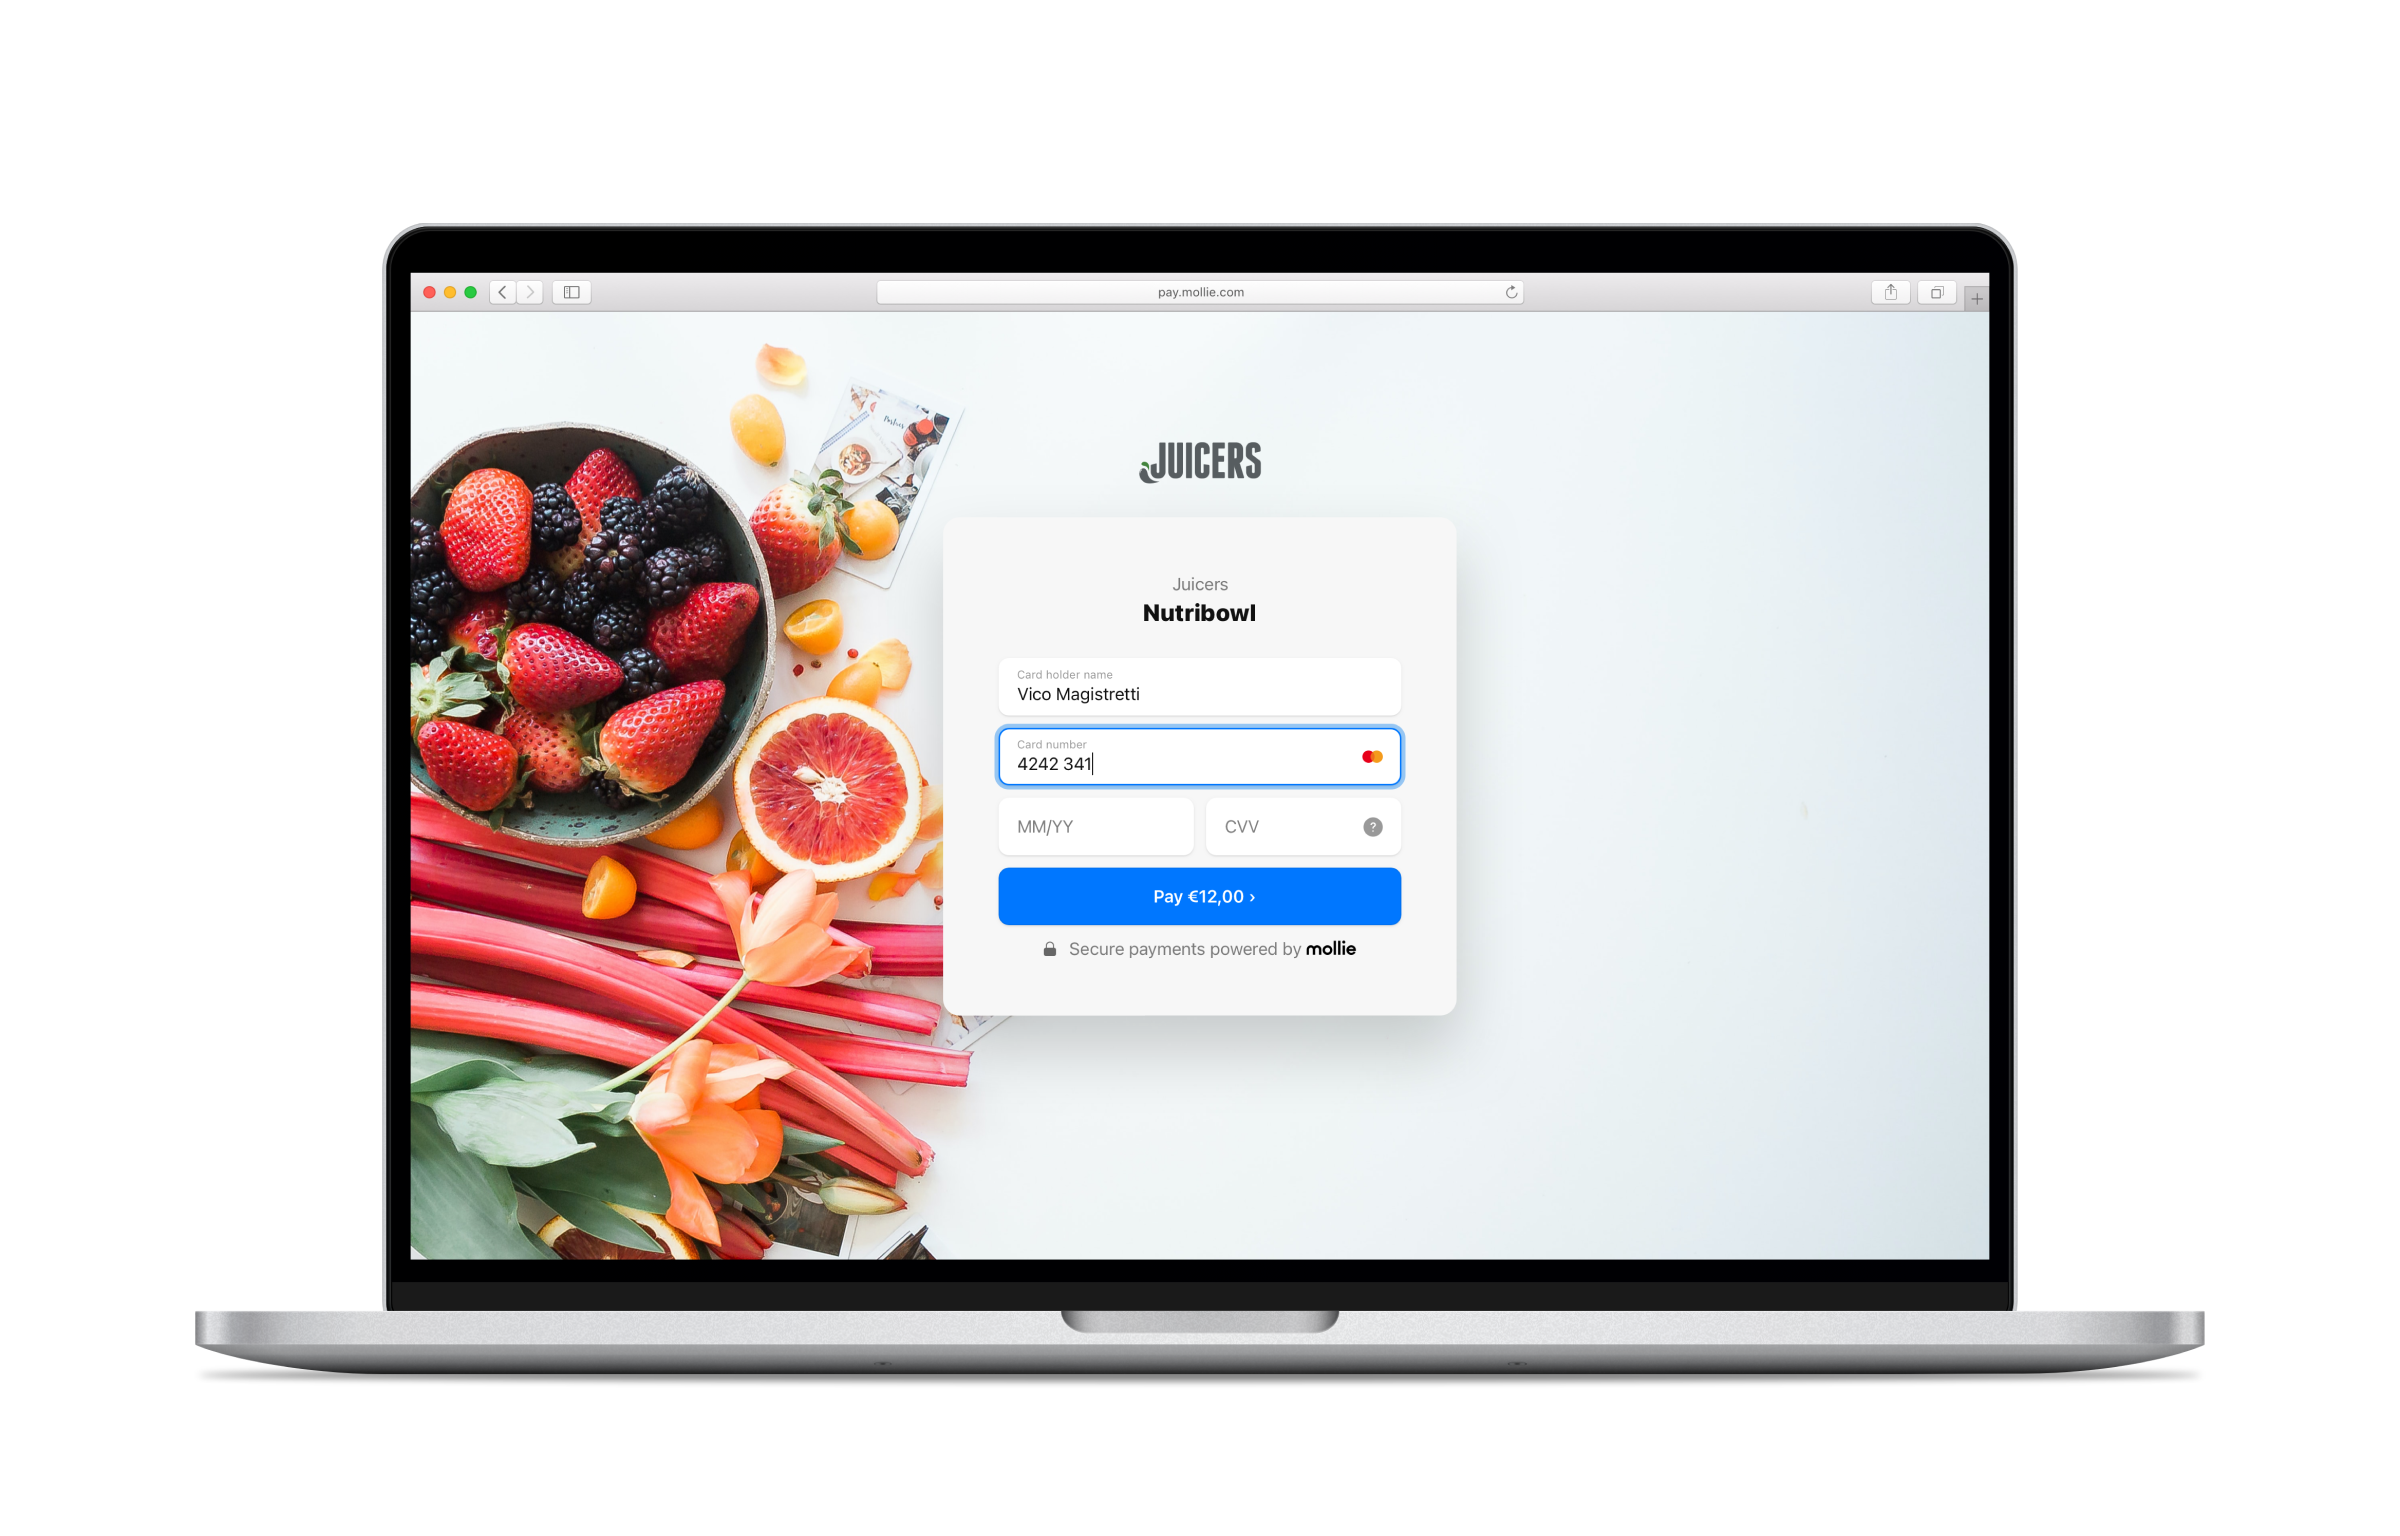
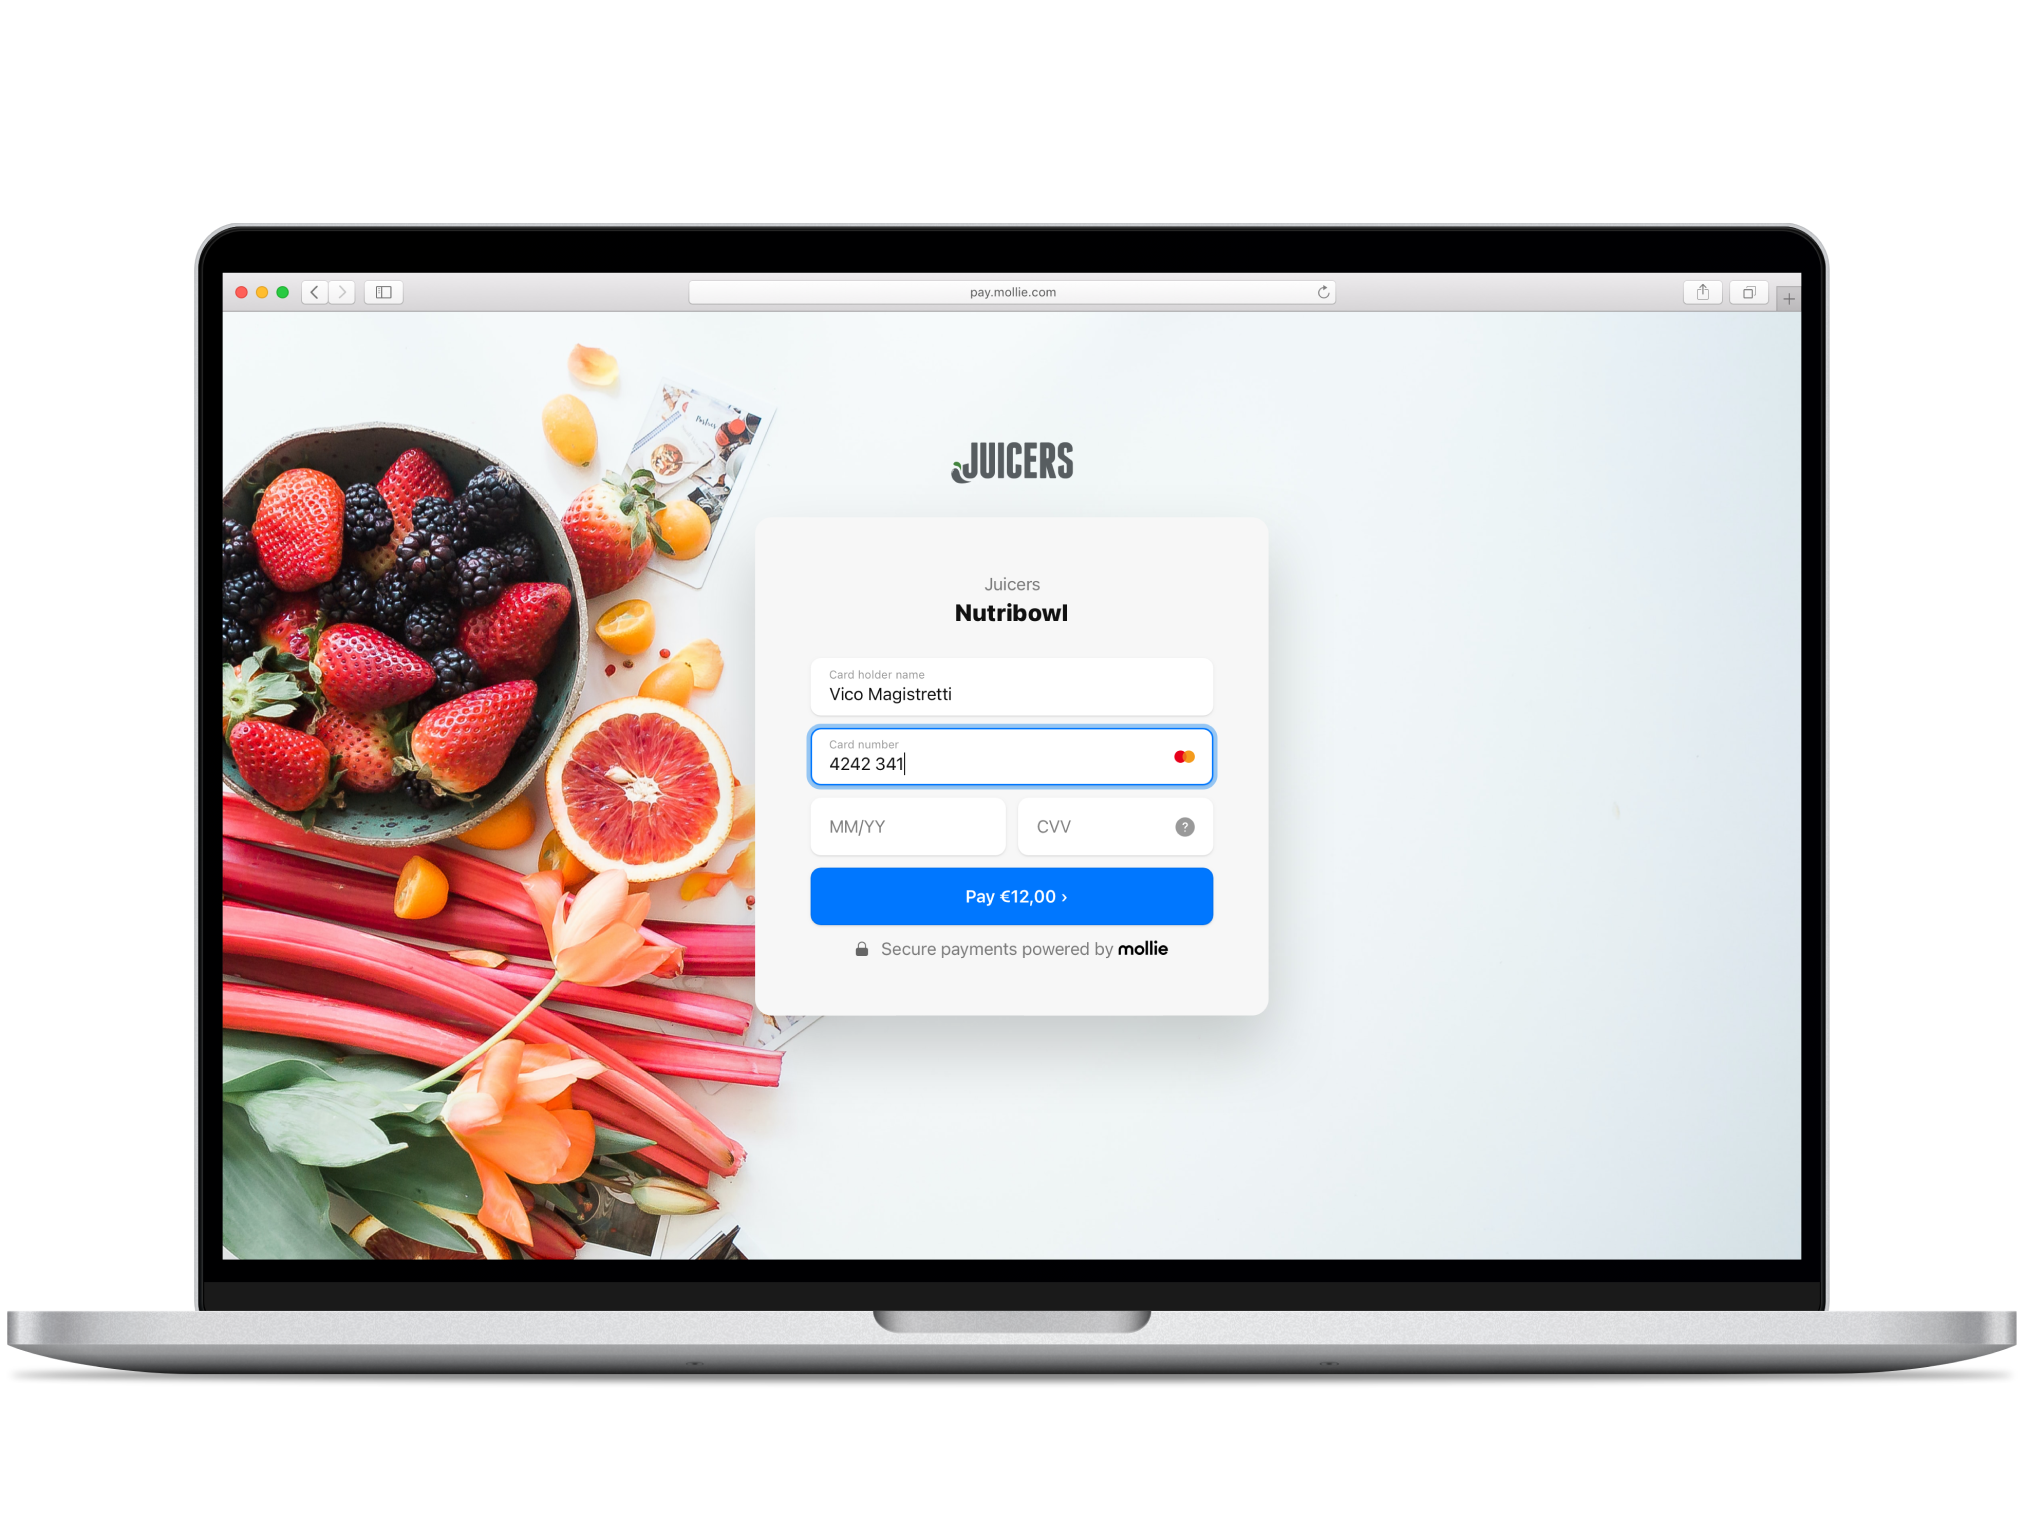
Center desktop asset + caption

diff --git a/src/Mamba/MorphBox.js b/src/Mamba/MorphBox.js
@@ -8,23 +8,18 @@ import {
   CloseButton,
   OpenButton,
   Overlay,
+  calculateScale,
 } from "./index";
 
 const Image = styled.img`
   transform-origin: center 0;
   width: ${(props) => props.width}px;
   height: ${(props) => props.height}px;
-  transform: scale(${(props) => props.currentScale})
-    translate(${(props) => props.translateX}%, ${(props) => props.translateY}%);
   transition: transform 0.56s cubic-bezier(0.52, 0.16, 0.24, 1);
 `;
 
 export function MorphBox(props) {
   const gallerySize = props.gallerySize;
-  const contentWidth = props.width;
-  const contentHeight = props.height;
-  const smallWidth = props.smallWidth;
-  const smallHeight = props.smallHeight;
   const galleryIndex = props.galleryIndex;
   const activeIndex = props.galleryIndex - props.currentIndex;
   const sendMorphstate = props.sendMorphstate;
@@ -46,62 +41,46 @@ export function MorphBox(props) {
   }
 
   useEffect(() => {
-    const canvasWidth = isMorphed ? window.innerWidth * 0.8 : smallWidth;
-    const canvasHeight = isMorphed ? window.innerHeight * 0.8 : smallHeight;
-    const x = imageRef.current.getBoundingClientRect().x;
-    const y = imageRef.current.getBoundingClientRect().y;
-    const imageWidthOffset = imageRef.current.getBoundingClientRect().width / 2;
-    const imageCenterX = x + imageWidthOffset;
-    const screenWidth = window.innerWidth;
+    const container = {
+      width: isMorphed ? window.innerWidth * 0.8 : props.smallWidth,
+      height: isMorphed ? window.innerHeight * 0.8 : props.smallHeight,
+    };
+    const content = {
+      width: props.width,
+      height: props.height,
+    };
+    const imageY = imageRef.current.getBoundingClientRect().y;
     const screenHeight = window.innerHeight;
-    const screenCenterX = screenWidth / 2;
-    const screenCenterY = screenHeight / 2;
-    const textHeight = captionRef.current.getBoundingClientRect().height;
-    const textWidthOffset =
-      captionRef.current.getBoundingClientRect().width / 2;
-    const textHeightOffset =
-      captionRef.current.getBoundingClientRect().height / 2;
-    const textCenterYOffset = smallHeight / 2 - textHeightOffset;
-    const textCenterY =
-      captionRef.current.getBoundingClientRect().y + textHeightOffset;
+    const screenWidth = window.innerWidth;
+    const textHeightOffset = captionRef.current.scrollHeight / 2;
+    const textY = captionRef.current.getBoundingClientRect().y;
+    const textWidth = captionRef.current.scrollWidth;
 
     // Calculate scale
-    const scale =
-      canvasWidth / canvasHeight > contentWidth / contentHeight
-        ? canvasHeight / contentHeight
-        : canvasWidth / contentWidth;
+    const scale = calculateScale(container, content);
+    const imageWidth = content.width * scale;
+    const imageHeight = content.height * scale;
 
     // 1. Scale sizes
-    const scaledWidth = contentWidth * scale;
-    const scaledHeight = contentHeight * scale;
-    const verticalWhitespace = (screenHeight - scaledHeight) / 2;
-    const scaledWidthOffset = scaledWidth / 2;
+    const imageWhitespaceX = screenWidth - imageWidth;
+    const imageOffsetX = screenWidth - imageWidth - textWidth;
+    const textWhitespaceX = screenWidth - textWidth;
+    const imageWhitespaceY = screenHeight - imageHeight;
 
     // 2.1 Image position
-    const screenCenterXOffset = screenCenterX - imageCenterX - textWidthOffset;
-    const screenCenterYOffset = y - verticalWhitespace;
-
-    // 2.2 Text position
-    const initialCaptionXPosition = smallWidth / 2 + textWidthOffset;
-    const scaledTextY = screenCenterY - textCenterY + textHeightOffset;
-    const captionCenterX =
-      scaledWidthOffset +
-      (galleryIndex === 2
-        ? textWidthOffset
-        : textWidthOffset + textWidthOffset);
-
-    // Translate to percentage
-    const translateX = (screenCenterXOffset / scaledWidth) * 100;
-    const translateY = (screenCenterYOffset / scaledHeight) * 100;
-    const translateTextY = (textCenterYOffset / textHeight) * 100;
-    const translateScaledTextY = (scaledTextY / textHeight) * 100;
+    const imageMorphY = imageY - imageWhitespaceY / 2;
+    const imageMorphX = 240 - imageWhitespaceX / 2 + imageOffsetX / 2;
+    const textMorphY =
+      textY - imageWhitespaceY / 2 - imageHeight / 2 + textHeightOffset;
+    const textMorphX =
+      240 - textWhitespaceX / 2 + imageOffsetX / 2 + imageWidth;
 
     // Update values
-    updateTranslateX(isMorphed ? translateX : 0);
-    updateTranslateY(isMorphed ? -translateY : 0);
+    updateTranslateX(isMorphed ? imageMorphX : 0);
+    updateTranslateY(isMorphed ? -imageMorphY : 0);
     setCurrentScale(scale);
-    setCaptionX(isMorphed ? captionCenterX : initialCaptionXPosition);
-    updateCaptionY(isMorphed ? translateScaledTextY : translateTextY);
+    setCaptionX(isMorphed ? textMorphX : 0);
+    updateCaptionY(isMorphed ? -textMorphY : 0);
   }, [isMorphed]);
 
   useEffect(() => {
@@ -136,15 +115,17 @@ export function MorphBox(props) {
         width={props.width}
         height={props.height}
         src={props.image}
-        currentScale={currentScale}
         isMorphed={isMorphed}
-        translateX={translateX}
-        translateY={translateY}
+        style={{
+          transform: `matrix(${currentScale}, 0, 0, ${currentScale}, ${translateX}, ${translateY})`,
+        }}
       />
       <FigCaption
         ref={captionRef}
         style={{
-          transform: `translate3d(${captionX}px, ${captionY}%, 0)`,
+          transform: `matrix(${isMorphed ? 1 : 0.65}, 0, 0, ${
+            isMorphed ? 1 : 0.65
+          }, ${captionX}, ${captionY})`,
         }}
         className={isMorphed && "is-morphed"}
       >

diff --git a/src/Mamba/MobileMorphBox.js b/src/Mamba/MobileMorphBox.js
@@ -18,12 +18,9 @@ const Image = styled.img`
 
 export function MobileMorphBox(props) {
   const gallerySize = props.gallerySize;
-  const smallWidth = props.smallWidth;
-  const smallHeight = props.smallHeight;
   const galleryIndex = props.galleryIndex;
   const activeIndex = props.galleryIndex - props.currentIndex;
   const sendMorphstate = props.sendMorphstate;
-  const morphScale = props.scale;
   const imageRef = useRef(null);
   const captionRef = useRef(null);
   const bodyRef = useRef(null);
@@ -39,8 +36,8 @@ export function MobileMorphBox(props) {
 
   useEffect(() => {
     const container = {
-      width: isMorphed ? window.innerWidth * morphScale : smallWidth,
-      height: isMorphed ? window.innerHeight * morphScale : smallHeight,
+      width: isMorphed ? window.innerWidth * props.scale : props.smallWidth,
+      height: isMorphed ? window.innerHeight * props.scale : props.smallHeight,
     };
     const content = {
       width: props.width,
@@ -59,7 +56,7 @@ export function MobileMorphBox(props) {
     const imageHeight = content.height * scale;
     const verticalWhitespace = screenHeight - (imageHeight + textHeightOffset);
 
-    // 2.1 Image position
+    // 2.1 Calculate positions
     const imageMorphY = imageY - verticalWhitespace / 2;
     const textMorphY = textY - imageHeight - textBaseY - verticalWhitespace / 2;
 

diff --git a/src/Mamba/Layout.js b/src/Mamba/Layout.js
@@ -29,12 +29,13 @@ export const Container = styled.li`
   justify-content: center;
   position: relative;
   height: 314px;
-  min-width: 100%;
+
+  width: 50%;
   z-index: ${(props) => (props.isMorphed ? 10 : 0)};
   transition: z-index 0s ${(props) => (props.isMorphed ? 0 : 0.56)}s, ${fadeIn};
 
-  @media (min-width: 1060px) {
-    width: 50%;
+  @media (max-width: 1059px) {
+    min-width: 100%;
   }
 
   ${(props) =>

diff --git a/pages/index.js b/pages/index.js
@@ -41,7 +41,7 @@ export default function Home() {
       <Section>
         <Headline>Work</Headline>
         <SmallGallery />
-        {/* <LargeGallery /> */}
+        <LargeGallery />
       </Section>
     </main>
   );

diff --git a/src/Data/Work.js b/src/Data/Work.js
@@ -19,7 +19,7 @@ export const Checkout = {
   key: 2,
   galleryIndex: 2,
   scale: 1,
-  width: 2400,
+  width: 2024,
   height: 1536,
   smallWidth: 375,
   smallHeight: 240,
